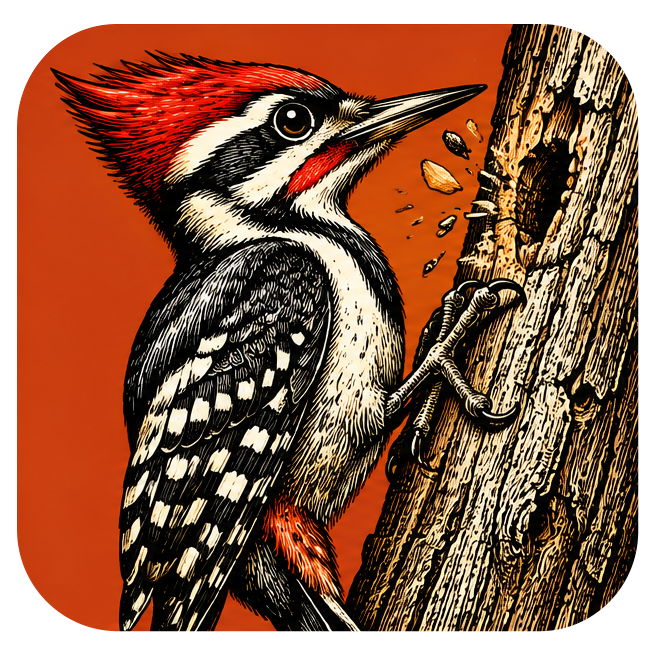
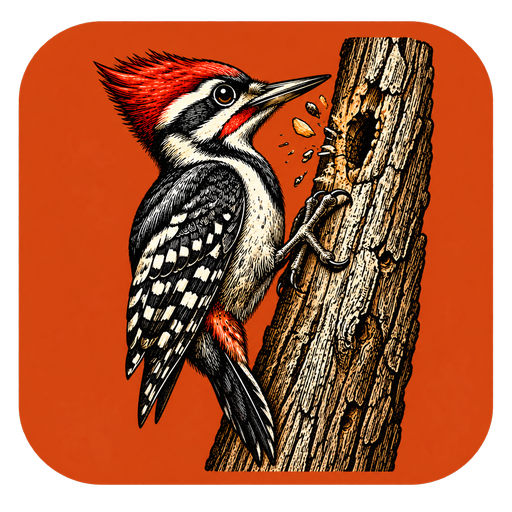
Branding: use approved 2026-10-25 FontStrike artwork

diff --git a/scripts/check_approved_branding.py b/scripts/check_approved_branding.py
@@ -1,0 +1,26 @@
+"""Approved 2026-10-25 branding contract. Requires Pillow; does not modify files."""
+from pathlib import Path
+from hashlib import sha256
+import json
+import unittest
+from PIL import Image
+ROOT = Path(__file__).resolve().parents[1]
+APP = 'FontStrike'
[1 lines of base64/hex data omitted]
+class ApprovedBranding(unittest.TestCase):
+    def test_exact_approved_source_and_readme(self):
+        p = ROOT / 'assets/branding' / (APP + '.png')
+        self.assertEqual(sha256(p.read_bytes()).hexdigest(), APPROVED)
+        with Image.open(p) as image:
+            self.assertEqual(image.size, (512,512))
+        self.assertIn('assets/branding/' + APP + '.png', (ROOT/'README.md').read_text())
+        self.assertEqual(json.loads((p.parent/'provenance.json').read_text())['sha256'], APPROVED)
+
+    def test_runtime_uses_approved_source(self):
+        code = (ROOT/'src/bin/desktop.rs').read_text()
+        self.assertIn('include_bytes!("../../assets/branding/FontStrike.png")', code)
+        self.assertIn('decode_png(LOGO_PNG, 64)', code)
+        self.assertIn('viewport.with_icon(egui::IconData', code)
+
+if __name__ == "__main__":
+    unittest.main()
